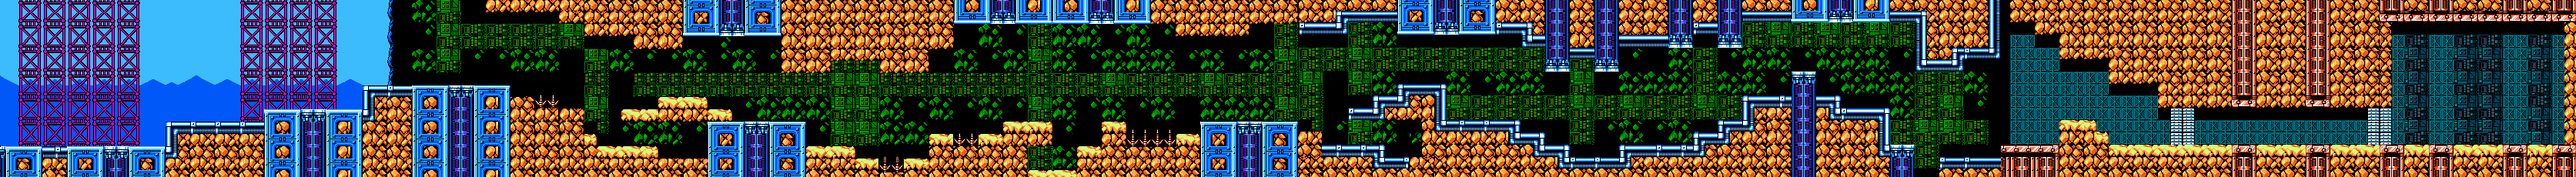
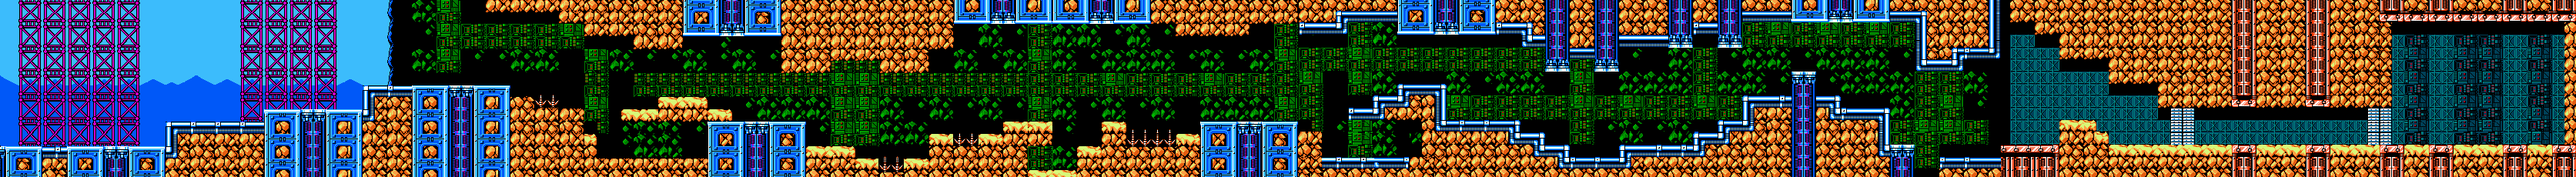
Fixed bugs related to megaman getting stuck in small boxes on map by increasing map openness. Still camera scroll freeze bug in middle of map.

Changed region(s): [[0.4973, 0.7609, 0.5595, 0.9435], [0.2176, 0.7609, 0.2797, 0.8826]]

diff --git a/main.js b/main.js
@@ -14,9 +14,8 @@ ASSET_MANAGER.downloadAll(function () {
     var ctx = canvas.getContext('2d');
 
     var gameEngine = new GameEngine();
-    var bg = new Background(gameEngine, 0, 0, ctx.width, ctx.height);
+    gameEngine.background = new Background(gameEngine, 0, 0, ctx.width, ctx.height);
     gameEngine.player = new MegaMan(gameEngine, 400, 500, 1.5, true);
-
 
     var r = new Platform(gameEngine, 631, 16, 722 - 631, 16);
     var r1 = new Platform(gameEngine, 726, 30, 759 - 726, 30);
@@ -58,8 +57,7 @@ ASSET_MANAGER.downloadAll(function () {
     var p5 = new Platform(gameEngine, 662, 230, 63, 103);
     var p6 = new Platform(gameEngine, 726, 230, 32, 88);
     var p7 = new Platform(gameEngine, 758, 230, 775 - 758, 55);
-    var p8 = new Platform(gameEngine, 775, 230, 80, 39);
-    var p9 = new Platform(gameEngine, 854, 230, 66, 23);
+    var p8 = new Platform(gameEngine, 775, 230, 145, 24);
     var p10 = new Platform(gameEngine, 807, 156, 144, 15);
     var p11 = new Platform(gameEngine, 855, 141, 64, 15);
     var p12 = new Platform(gameEngine, 920, 230, 1046 - 920, 230 - 158);
@@ -74,12 +72,12 @@ ASSET_MANAGER.downloadAll(function () {
     var p21 = new Platform(gameEngine, 1463, 230, 1559 - 1463, 230 - 174);
     var p22 = new Platform(gameEngine, 1560, 230, 1685 - 1560, 230 - 158);
     var p23 = new Platform(gameEngine, 1686, 230, 1717 - 1686, 230 - 171);
-    var p24 = new Platform(gameEngine, 1717, 230, 1799 - 1717, 230 - 189);
-    var p25 = new Platform(gameEngine, 1800, 230, 1847 - 1800, 230 - 204);
+    var p24 = new Platform(gameEngine, 1717, 230, 130, 26);
     var p26 = new Platform(gameEngine, 1752, 156, 1784 - 1752, 156 - 140);
     var p27 = new Platform(gameEngine, 1783, 156, 1816 - 1783, 156 - 124);
-    var p28 = new Platform(gameEngine, 1815, 156, 1878 - 1815, 156 - 109);
+    var p28 = new Platform(gameEngine, 1815, 154, 1878 - 1815, 156 - 110);
     var p29 = new Platform(gameEngine, 1847, 230, 1975 - 1847, 230 - 156);
+    var pBugFix = new Platform(gameEngine, 1847, 230, 31, 110);
     var p30 = new Platform(gameEngine, 1975, 230, 2006 - 1975, 230 - 173);
     var p31 = new Platform(gameEngine, 2007, 230, 2038 - 2007, 230 - 189);
     var p32 = new Platform(gameEngine, 2038, 230, 2104 - 2038, 230 - 204);
@@ -111,8 +109,9 @@ ASSET_MANAGER.downloadAll(function () {
     var jawa3 = new Jawa(gameEngine, 3056, 187);
     // var jawa4 = new Jawa(gameEngine, 3246, 187);
     var powerup = new Powerup(gameEngine, 450, 126, 15, "rapidfire");
+    var powerup2 = new Powerup(gameEngine, 3220, 175, 15, "rapidfire");
 
-    gameEngine.addEntity(bg);
+    gameEngine.addEntity(gameEngine.background);
     gameEngine.addEntity(spikes2);
     gameEngine.addEntity(spikes3);
     gameEngine.addEntity(spikes4);
@@ -121,6 +120,7 @@ ASSET_MANAGER.downloadAll(function () {
     // gameEngine.addEntity(ladder);
 
     //Add floor platforms
+    gameEngine.addEntity(pBugFix);
     gameEngine.addEntity(p);
     gameEngine.addEntity(p2);
     gameEngine.addEntity(p3);
@@ -129,7 +129,6 @@ ASSET_MANAGER.downloadAll(function () {
     gameEngine.addEntity(p6);
     gameEngine.addEntity(p7);
     gameEngine.addEntity(p8);
-    gameEngine.addEntity(p9);
     gameEngine.addEntity(p10);
     gameEngine.addEntity(p11);
     gameEngine.addEntity(p12);
@@ -145,7 +144,6 @@ ASSET_MANAGER.downloadAll(function () {
     gameEngine.addEntity(p22);
     gameEngine.addEntity(p23);
     gameEngine.addEntity(p24);
-    gameEngine.addEntity(p25);
     gameEngine.addEntity(p26);
     gameEngine.addEntity(p27);
     gameEngine.addEntity(p28);

diff --git a/player.js b/player.js
@@ -67,6 +67,8 @@ MegaMan.prototype.constructor = MegaMan;
 
 MegaMan.prototype.update = function() {
 
+    // if (!this.game.playerCanMove) this.game.playerCanMove = true;
+
     if (this.platform && this.collision(this.platform) && this.y > this.platform.y - this.platform.height + 8) {
         // this.y = this.platform.y - this.platform.height;
         if (this.x + this.width >= this.platform.x && this.x + this.width <= this.platform.x + this.platform.width) {
@@ -74,9 +76,11 @@ MegaMan.prototype.update = function() {
         } else {
             this.x = this.platform.x + this.platform.width;
         }
+        // this.game.playerCanMove = false;
     }
 
-    this.game.playerMoving = this.x < this.game.surfaceWidth / 2 - this.width || this.x > this.game.surfaceWidth / 2 + this.width;
+    this.game.playerMoving = (this.x < this.game.surfaceWidth / 2 - this.width || this.x > this.game.surfaceWidth / 2 + this.width);
+                                //&& (this.game.background.xOffset == 0 || this.game.background.lockScroll);
 
     //Mega Man will die when health below 1
     if (this.currentHealth < 1) {
@@ -135,6 +139,7 @@ MegaMan.prototype.update = function() {
             } else if (this.x < ent.x + ent.width && this.x > ent.x) {
                 this.x = ent.x + ent.width;
             }
+            // this.game.playerCanMove = false;
         } else if (ent instanceof Platform && this.collisionAbove(ent)) {
             //If Megaman hits a platform from below and he is jumping, will make him start to fall
             this.jumping = false;
@@ -157,7 +162,7 @@ MegaMan.prototype.update = function() {
                 }, 8000);
             }
         }
-        if (ent instanceof Spikes && this.collision(ent)) {
+        if ((ent instanceof Spikes || ent instanceof Jawa) && this.collision(ent)) {
             this.takeDamage();
             this.jumping = true;
         }
@@ -167,8 +172,10 @@ MegaMan.prototype.update = function() {
     if (!this.dying) {
 
         //When the game can't scroll anymore, Megaman will now be able to move 
-        if (!this.game.scrolling && !this.game.screenScrolling && this.game.right && !this.game.left && this.x + this.width < 3330) this.x += this.game.scrollSpeed * 3;
-        if (!this.game.scrolling && !this.game.screenScrolling && this.game.left && !this.game.right && this.x > 0) this.x -= this.game.scrollSpeed * 3;
+        if (!this.game.scrolling && !this.game.screenScrolling && this.game.right 
+            && !this.game.left && this.x + this.width < 3330 /*&& this.game.playerCanMove*/) this.x += this.game.scrollSpeed * 3;
+        if (!this.game.scrolling && !this.game.screenScrolling && this.game.left 
+            && !this.game.right && this.x > 0 /*&& this.game.playerCanMove*/) this.x -= this.game.scrollSpeed * 3;
         if (this.x > 350 && this.x < 450) this.game.screenScrolling = true;
         if (!this.game.scrolling) this.game.screenScrolling = false;
 

diff --git a/level.js b/level.js
@@ -154,7 +154,7 @@ Powerup.prototype.update = function() {
     if (this.x > 0 && this.x < this.game.surfaceWidth) this.started = true;
     if (this.started) {
         this.x -= 3;
-        this.y += Math.floor(Math.random() * 7) - 3;
+        this.y += Math.floor(Math.random() * 21) - 10;
         if (this.x < 0) this.removeFromWorld = true;
         Entity.prototype.update.call(this);
     }

diff --git a/gameengine.js b/gameengine.js
@@ -31,6 +31,7 @@ function GameEngine() {
     this.playerCount = 1;
     this.entities = [];
     this.showOutlines = true;
+    this.background = null;
     this.player = null;
     this.ctx = null;
     this.click = null;
